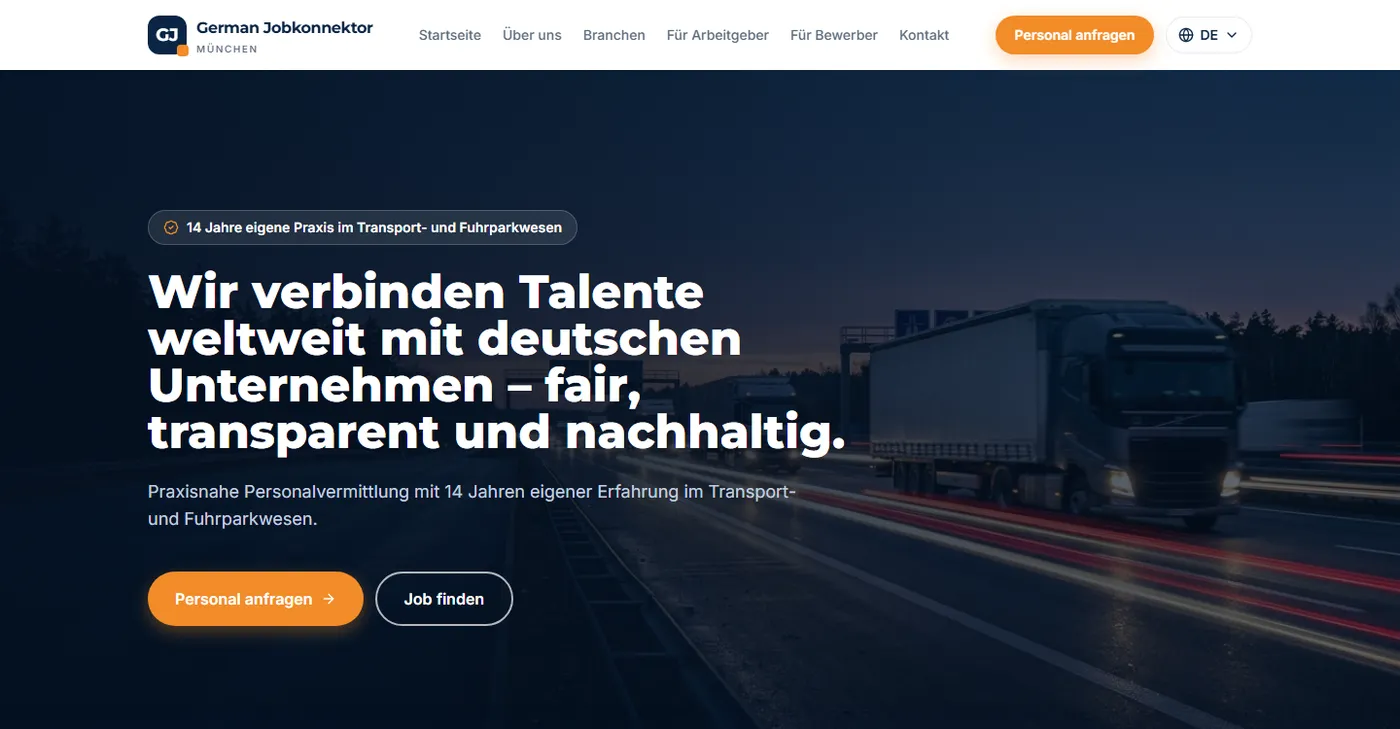
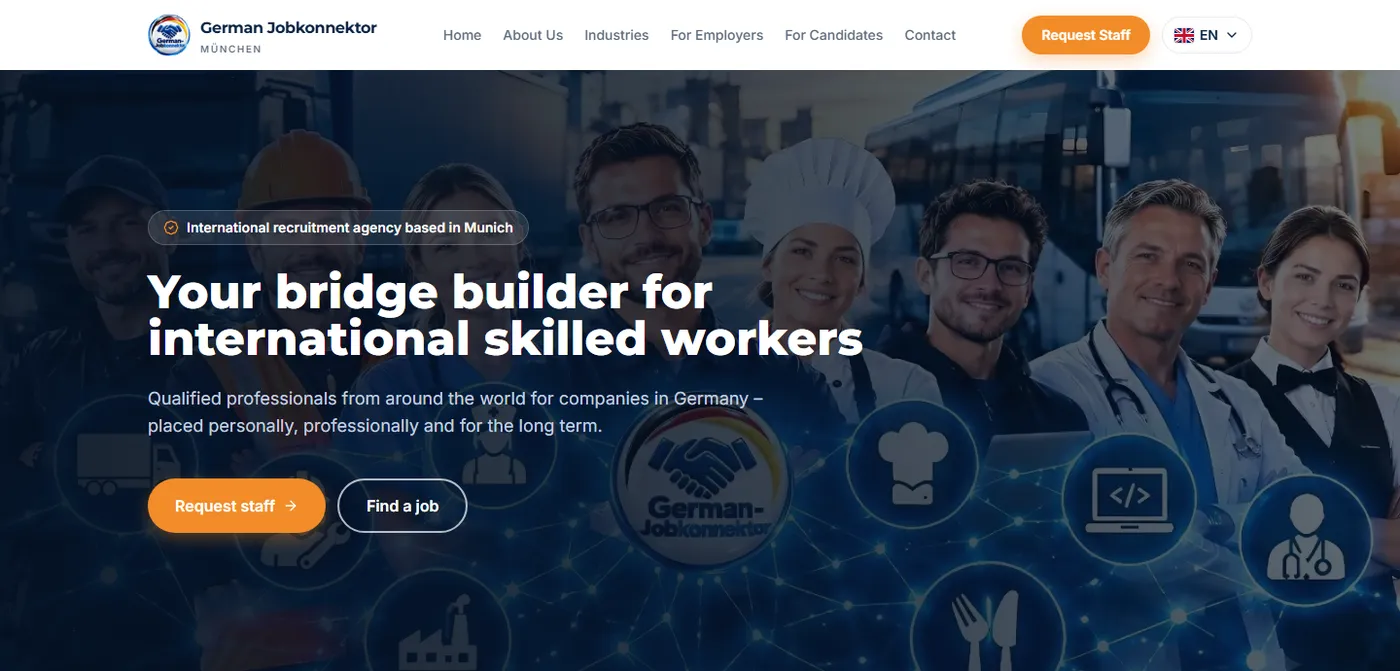
Link German Jobkonnektor to its production domain

diff --git a/data.js b/data.js
@@ -102,7 +102,7 @@ window.SITE = {
       what: "Website for a recruitment agency placing candidates in Germany, in German, English, French and Arabic with full right-to-left support.",
       how: "Next.js 16 and TypeScript, containerised with Docker and Caddy, deployed by GitHub Actions.",
       stack: ["Next.js", "TypeScript", "Tailwind", "Docker", "Caddy", "GitHub Actions"],
-      links: { live: "https://rayenbenabdelhafidh.github.io/German-Jobkonnektor/" }
+      links: { live: "https://germanjobkonnektor.com/en/" }
     },
     {
       id: "neurospace", tracks: ["cloud"], status: "client",
@@ -231,7 +231,7 @@ window.SITE.media = {
   mtm2:          { src: "img/shots/mtm2.webp", kind: "shot", bar: "MTM-2 Méthodes, draft review", alt: "MTM-2 draft screen showing a generated routing with standard minute values per operation" },
   neurospace:    { src: "img/shots/neurospace.webp", kind: "shot", bar: "NeuroSpace, live session", alt: "NeuroSpace classroom with a shared whiteboard, tutor and student video, and chat" },
   school:        { src: "img/shots/school.webp", kind: "shot", bar: "Côte-Nord platform, office dashboard", alt: "Driving-school dashboard with enrolments, revenue chart, today's lessons and alerts" },
-  jobkonnektor:  { src: "img/shots/jobkonnektor.webp", kind: "shot", bar: "rayenbenabdelhafidh.github.io/German-Jobkonnektor", alt: "German Jobkonnektor homepage in German" },
+  jobkonnektor:  { src: "img/shots/jobkonnektor.webp", kind: "shot", bar: "germanjobkonnektor.com/en", alt: "German Jobkonnektor homepage in English" },
   clinic:        { src: "img/diagrams/clinic.svg", kind: "diagram", alt: "Call flow: Twilio, Whisper, GPT agent, Playwright booking" },
   trading:       { src: "img/diagrams/trading.svg", kind: "diagram", alt: "TradingView alerts through Nginx to FastAPI, PostgreSQL, Redis and a React dashboard" },
   radar:         { src: "img/diagrams/radar.svg", kind: "diagram", alt: "Prospect sources into a PostgreSQL data vault, LLM scoring and CRM sync" },
